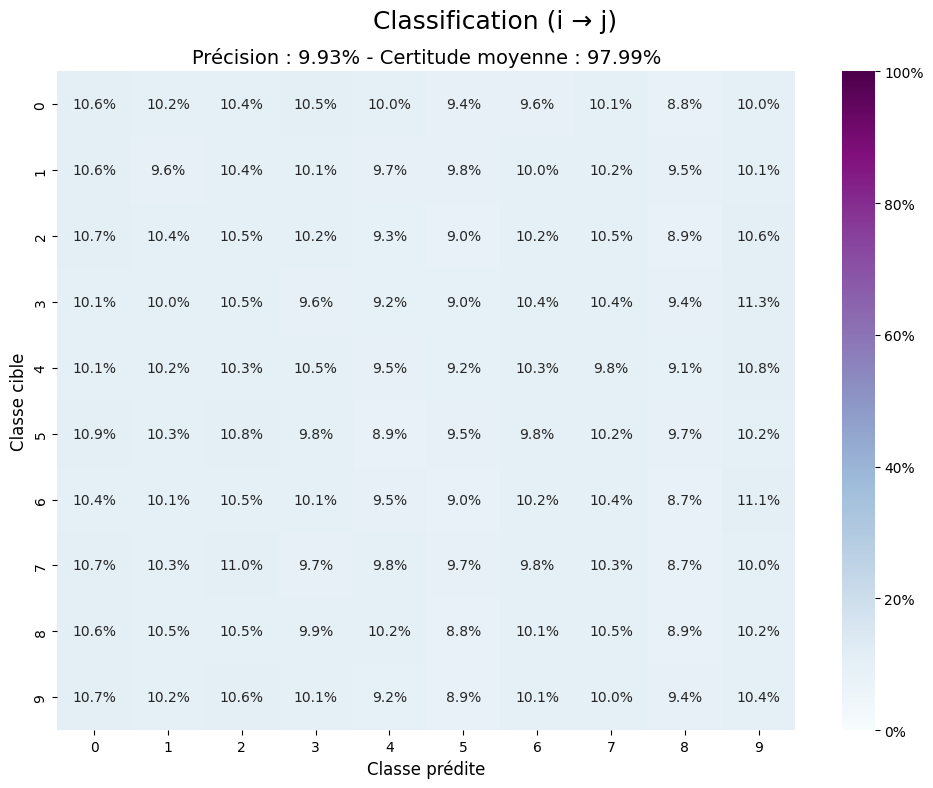
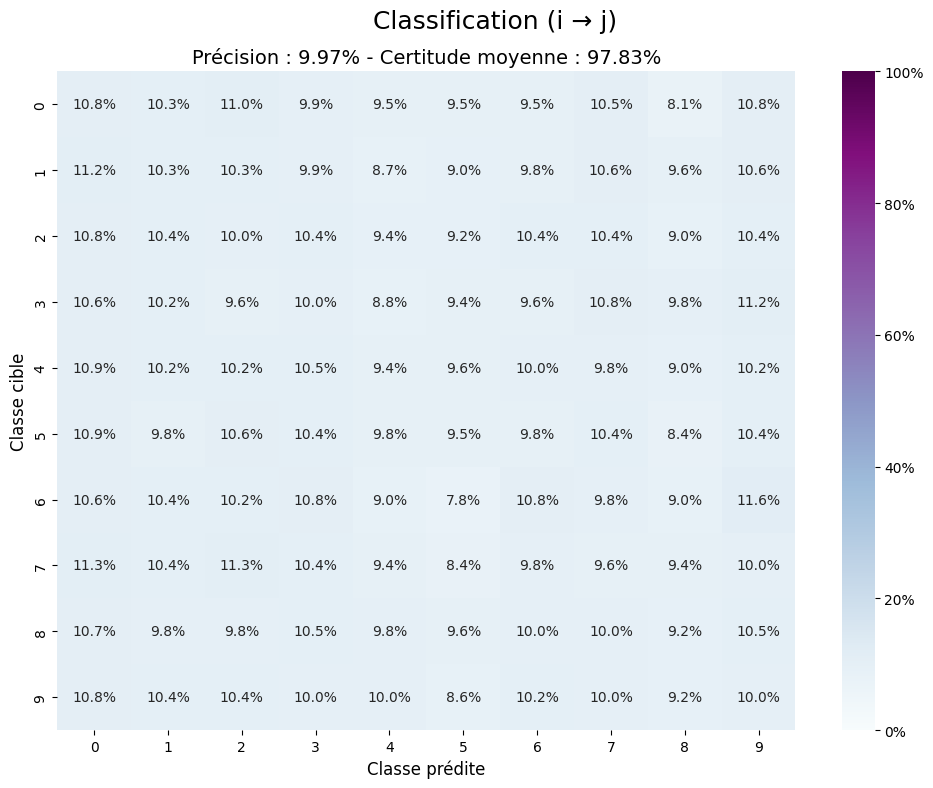
Small fix

diff --git a/Sources/code/analytics/trace_confusion.py b/Sources/code/analytics/trace_confusion.py
@@ -14,12 +14,14 @@ parser.add_argument("--tdetector", type=str, default=None, help="Nom du détecte
 parser.add_argument("--tclassifier", type=str, default=None, help="Nom du classifieur de traces utilisé")
 parser.add_argument("-a", action='store_true', help="Inclusion de la perturbation")
 parser.add_argument("-t", type=int, default=0, help="Méthode (0 : translation, 1 : translation + normalisation, 2 : transformation)")
+parser.add_argument("--encode", action='store_true', help="Encoder et décoder les images non transformées")
 args = parser.parse_args()
 
 default_autoencoder = args.autoencoder
 default_classifier = args.classifier
 default_trace_detector = args.tdetector
 default_trace_classifier = args.tclassifier
+encode = args.encode
 use_alpha = args.a
 transform_method = args.t
 if transform_method not in list(range(3)):
@@ -61,6 +63,14 @@ input_shape = tuple(autoencoder_definition["input_shape"])
 x_train_rr = utils.resize(x_train_rr, input_shape)
 
 x_ori, y_ori, x_src, y_src = utils.split_dataset(x_train_rr, y_train_rr, 0.5, seed=None) # (1k inchangés - 9k obscurcis)
+
+if encode:
+    z_ori = latent.encode(
+        autoencoder,
+        x=x_ori,
+        y=y_ori,
+    )
+    x_ori = autoencoder.decoder.predict(z_ori)
 
 x_src, y_src, y_dst = utils.split_src_to_dst(x_src, y_src)
 
